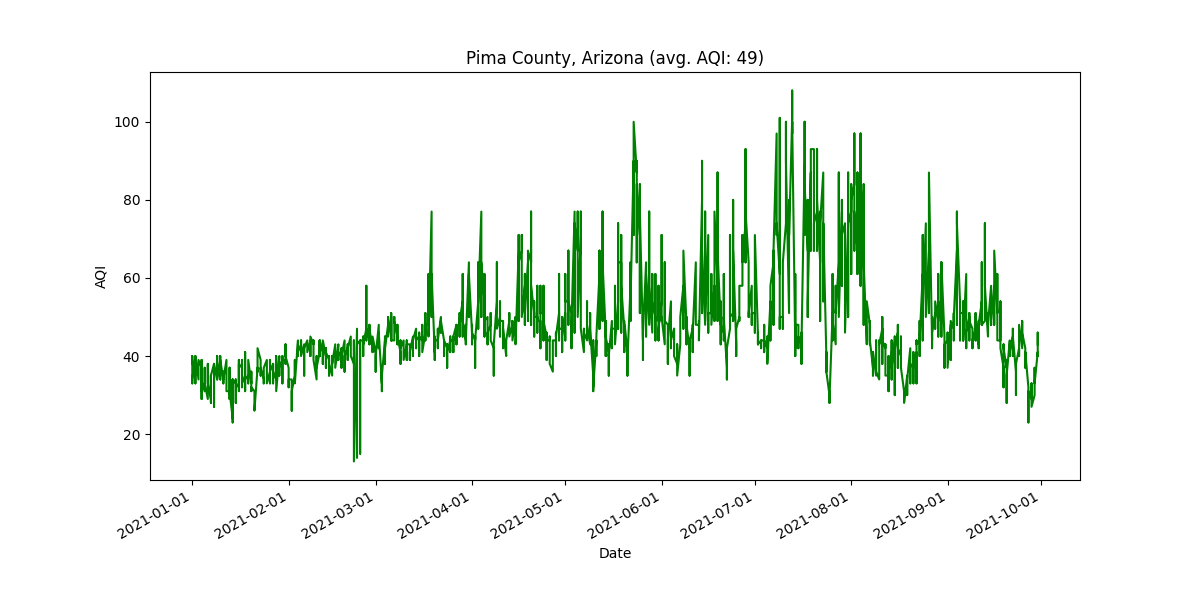
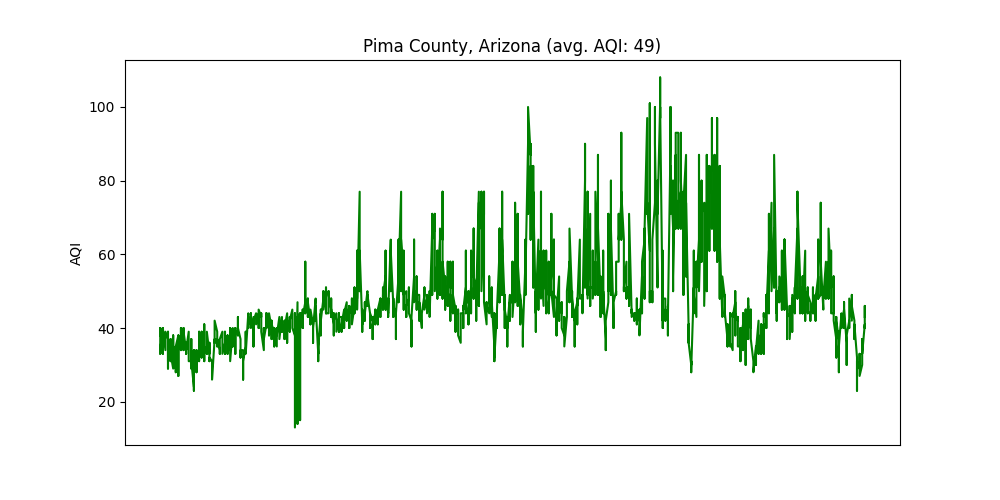
Got rid of xaxis labels

diff --git a/ozone.py b/ozone.py
@@ -28,11 +28,11 @@ while True:
     if state_code == 'Q':
         break
 
-    state_name = [k for k, v in state_codes.items() if v == state_code][0]
-    
     if state_code not in state_codes.values():
         print("Invalid state code. Try again.")
         continue
+
+    state_name = [k for k, v in state_codes.items() if v == state_code][0]
 
     for idx, county in enumerate(counties_by_state[state_code], start=1):
         print(f"{idx}: {county}\n")
@@ -52,14 +52,17 @@ while True:
 
         plot_color = 'green' if average_aqi <= 50 else 'red'
 
-        plt.figure(figsize=(12, 6))
+        plt.figure(figsize=(10, 5))
         plt.plot(filtered_data['Date Local'], filtered_data['AQI'], color=plot_color)
         plt.title(f"{county} County, {state_name} (avg. AQI: {round(average_aqi)})")
-        plt.xlabel('Date')
         plt.ylabel('AQI')
-        plt.gca().xaxis.set_major_formatter(mdates.DateFormatter('%Y-%m-%d'))
-        plt.gca().xaxis.set_major_locator(mdates.MonthLocator())
-        plt.gcf().autofmt_xdate()
+
+        plt.tick_params(
+            axis='x',
+            which='both',
+            bottom=False,
+            top=False,
+            labelbottom=False) 
 
         choice = input("\nChoose destination for plot:\n\n\t1. Screen\n\n\t2. File\n")
         if choice == '1':
